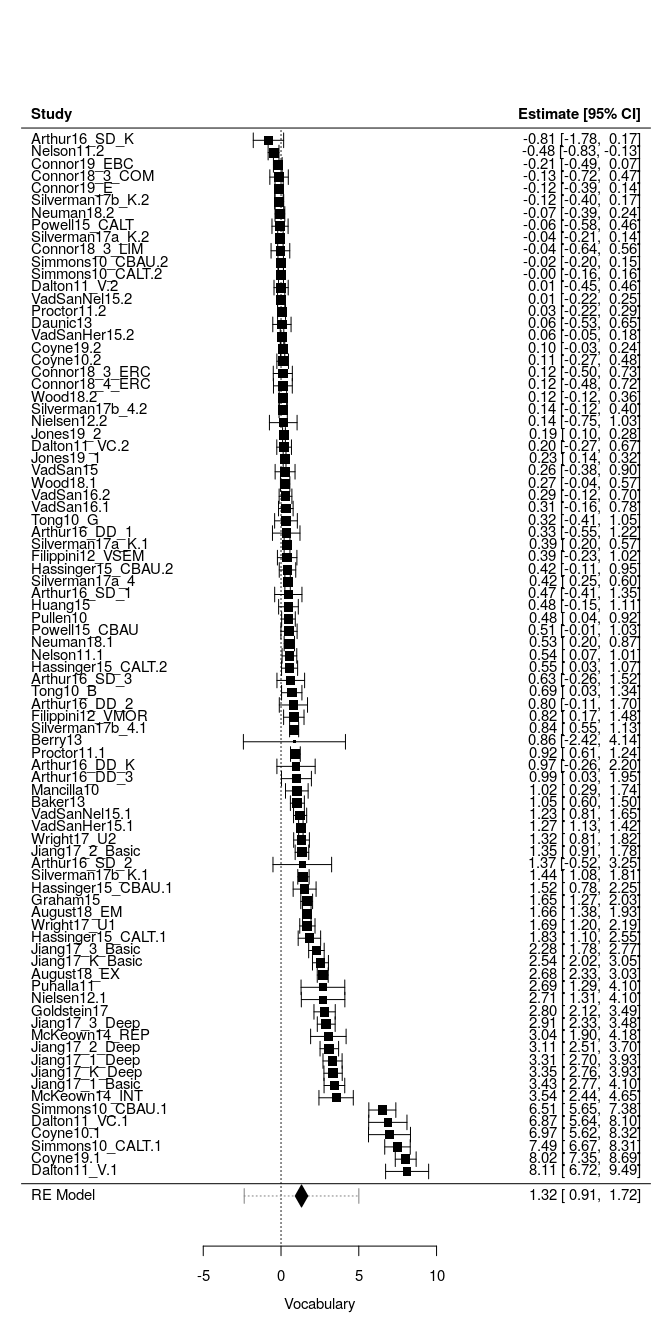
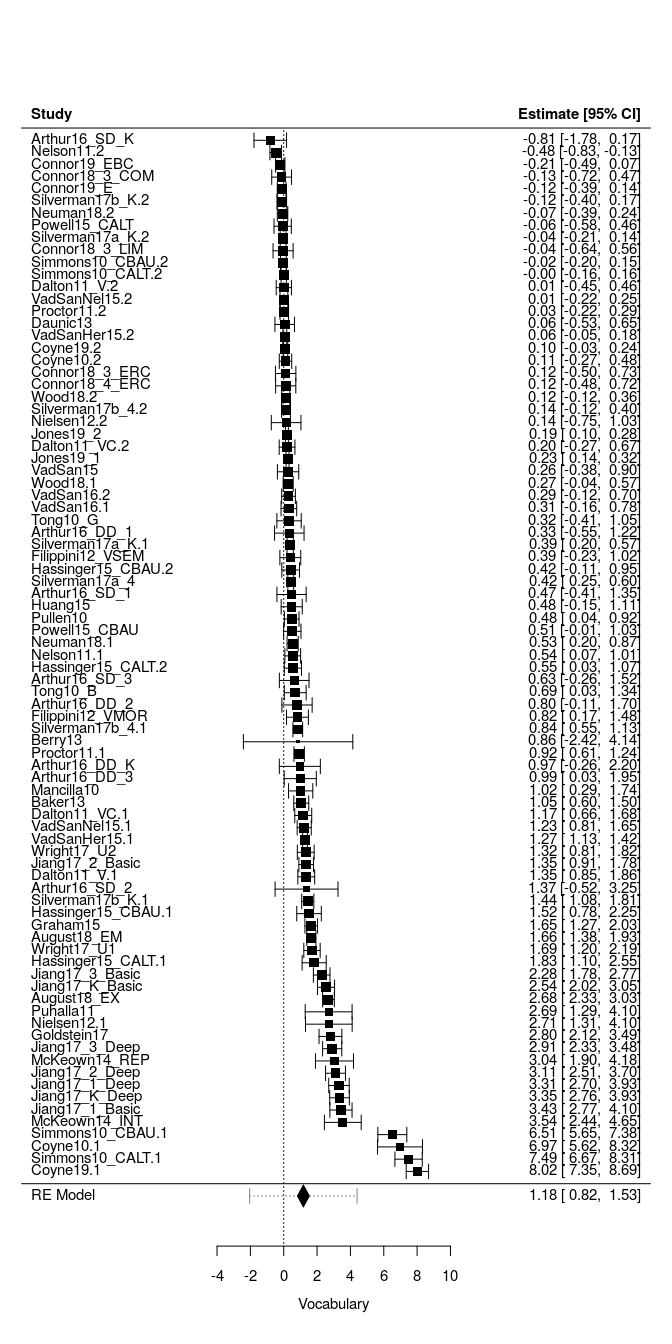
changes

diff --git a/analysis.md b/analysis.md
@@ -439,8 +439,8 @@ df_clean %>% knitr::kable()
 | Connor19\_EBC     | Connor19     | EBC      |  VR  | \-0.2084705 | 0.0203376 |     1 |    1 |    0 |    1 |   0 |   0 |    0 |   1 |    1 |    1 | ALT  |      0 |      0 |      0 |      1 |      1 |      1 |   0 |   1 |   0 |       0 |       1 |     1 |        0 |   4.50 |
 | Coyne10           | Coyne10      | Default  |  VR  |   6.9739699 | 0.4738991 |     0 |    1 |    0 |    0 |   0 |   0 |    0 |   0 |    0 |    0 | BAU  |      1 |      0 |      0 |      0 |      0 |      0 |   1 |   0 |   0 |       1 |       0 |     0 |        0 |  18.00 |
 | Coyne19           | Coyne19      | Default  |  VR  |   8.0164868 | 0.1170897 |     0 |    1 |    0 |    0 |   0 |   0 |    0 |   0 |    0 |    0 | ALT  |      1 |      0 |      0 |      0 |      0 |      0 |   0 |   1 |   0 |       0 |       1 |     0 |        1 |  44.00 |
-| Dalton11\_V       | Dalton11     | V        |  VR  |   8.1075333 | 0.4982294 |     0 |    1 |    0 |    0 |   0 |   0 |    0 |   0 |    1 |    0 | ALT  |      0 |      0 |      0 |      0 |      0 |      1 |   0 |   1 |   0 |       0 |       0 |     1 |        1 |  20.00 |
-| Dalton11\_VC      | Dalton11     | VC       |  VR  |   6.8664358 | 0.3943368 |     0 |    1 |    0 |    0 |   1 |   1 |    0 |   0 |    1 |    0 | ALT  |      0 |      0 |      0 |      0 |      0 |      1 |   0 |   1 |   0 |       0 |       0 |     1 |        1 |  20.00 |
+| Dalton11\_V       | Dalton11     | V        |  VR  |   1.3512556 | 0.0664307 |     0 |    1 |    0 |    0 |   0 |   0 |    0 |   0 |    1 |    0 | ALT  |      0 |      0 |      0 |      0 |      0 |      1 |   0 |   1 |   0 |       0 |       0 |     1 |        1 |  20.00 |
+| Dalton11\_VC      | Dalton11     | VC       |  VR  |   1.1700405 | 0.0673443 |     0 |    1 |    0 |    0 |   1 |   1 |    0 |   0 |    1 |    0 | ALT  |      0 |      0 |      0 |      0 |      0 |      1 |   0 |   1 |   0 |       0 |       0 |     1 |        1 |  20.00 |
 | Filippini12\_VMOR | Filippini12  | VMOR     |  VR  |   0.8227023 | 0.1120031 |     1 |    1 |    0 |    1 |   0 |   0 |    1 |   0 |    0 |    0 | ALT  |      0 |      1 |      0 |      0 |      0 |      0 |   0 |   1 |   0 |       0 |       1 |     0 |        0 |   7.25 |
 | Filippini12\_VSEM | Filippini12  | VSEM     |  VR  |   0.3949393 | 0.1020828 |     0 |    1 |    0 |    0 |   0 |   0 |    1 |   0 |    0 |    0 | ALT  |      0 |      1 |      0 |      0 |      0 |      0 |   0 |   1 |   0 |       0 |       1 |     0 |        0 |   7.25 |
 | Goldstein17       | Goldstein17  | Default  |  VR  |   2.8023543 | 0.1218541 |     0 |    1 |    0 |    0 |   0 |   0 |    0 |   0 |    1 |    1 | ALT  |      0 |      1 |      1 |      1 |      0 |      0 |   0 |   1 |   0 |       0 |       0 |     1 |        1 |  72.00 |
@@ -583,11 +583,11 @@ robu(
     ## Number of studies = 36 
     ## Number of outcomes = 85 (min = 1 , mean = 2.36 , median = 2 , max = 8 )
     ## Rho = 0.5 
-    ## I.sq = 97.53935 
-    ## Tau.sq = 1.183327 
+    ## I.sq = 97.37272 
+    ## Tau.sq = 1.093427 
     ## 
     ##                Estimate StdErr t-value  dfs    P(|t|>) 95% CI.L 95% CI.U Sig
-    ## 1 X.Intercept.     1.18  0.207    5.69 34.3 0.00000211    0.758      1.6 ***
+    ## 1 X.Intercept.      1.1  0.195    5.63 34.3 0.00000255      0.7     1.49 ***
     ## ---
     ## Signif. codes: < .01 *** < .05 ** < .10 *
     ## ---
@@ -880,12 +880,12 @@ robu(
     ## Number of studies = 36 
     ## Number of outcomes = 85 (min = 1 , mean = 2.36 , median = 2 , max = 8 )
     ## Rho = 0.5 
-    ## I.sq = 97.35011 
-    ## Tau.sq = 1.151654 
+    ## I.sq = 97.15662 
+    ## Tau.sq = 1.057611 
     ## 
     ##                Estimate StdErr t-value  dfs    P(|t|>) 95% CI.L 95% CI.U Sig
-    ## 1 X.Intercept.     1.68  0.311     5.4 27.7 0.00000958     1.04     2.32 ***
-    ## 2       typeVS    -1.55  0.316    -4.9 25.8 0.00004425    -2.20    -0.90 ***
+    ## 1 X.Intercept.     1.56  0.287    5.44 27.7 0.00000871    0.971    2.145 ***
+    ## 2       typeVS    -1.43  0.292   -4.89 25.9 0.00004542   -2.031   -0.829 ***
     ## ---
     ## Signif. codes: < .01 *** < .05 ** < .10 *
     ## ---
@@ -910,12 +910,12 @@ robu(
     ## Number of studies = 36 
     ## Number of outcomes = 85 (min = 1 , mean = 2.36 , median = 2 , max = 8 )
     ## Rho = 0.5 
-    ## I.sq = 97.57653 
-    ## Tau.sq = 1.250312 
+    ## I.sq = 97.41265 
+    ## Tau.sq = 1.154082 
     ## 
-    ##                Estimate StdErr t-value  dfs    P(|t|>) 95% CI.L 95% CI.U Sig
-    ## 1 X.Intercept.    1.296  0.237    5.47 28.1 0.00000758    0.811    1.781 ***
-    ## 2        TMULT   -0.599  0.448   -1.34  9.3 0.21272138   -1.607    0.409    
+    ##                Estimate StdErr t-value   dfs    P(|t|>) 95% CI.L 95% CI.U Sig
+    ## 1 X.Intercept.    1.193  0.222    5.38 28.05 0.00000972    0.739    1.646 ***
+    ## 2        TMULT   -0.496  0.440   -1.13  9.28 0.28772973   -1.488    0.495    
     ## ---
     ## Signif. codes: < .01 *** < .05 ** < .10 *
     ## ---
@@ -940,12 +940,12 @@ robu(
     ## Number of studies = 36 
     ## Number of outcomes = 85 (min = 1 , mean = 2.36 , median = 2 , max = 8 )
     ## Rho = 0.5 
-    ## I.sq = 97.52379 
-    ## Tau.sq = 1.536479 
+    ## I.sq = 97.35722 
+    ## Tau.sq = 1.416177 
     ## 
-    ##                Estimate StdErr t-value  dfs    P(|t|>) 95% CI.L 95% CI.U Sig
-    ## 1 X.Intercept.   1.1849  0.209   5.657 33.5 0.00000253    0.759    1.611 ***
-    ## 2 scale.Hours.   0.0474  0.181   0.262  6.3 0.80197707   -0.391    0.486    
+    ##                Estimate StdErr t-value   dfs    P(|t|>) 95% CI.L 95% CI.U Sig
+    ## 1 X.Intercept.   1.0998  0.196   5.608 33.44 0.00000294    0.701    1.499 ***
+    ## 2 scale.Hours.   0.0684  0.179   0.382  6.29 0.71505494   -0.365    0.502    
     ## ---
     ## Signif. codes: < .01 *** < .05 ** < .10 *
     ## ---
@@ -970,12 +970,12 @@ robu(
     ## Number of studies = 36 
     ## Number of outcomes = 85 (min = 1 , mean = 2.36 , median = 2 , max = 8 )
     ## Rho = 0.5 
-    ## I.sq = 97.47389 
-    ## Tau.sq = 1.209645 
+    ## I.sq = 97.31537 
+    ## Tau.sq = 1.123733 
     ## 
     ##                   Estimate StdErr t-value  dfs  P(|t|>) 95% CI.L 95% CI.U Sig
-    ## 1    X.Intercept.    1.407  0.330    4.27 17.6 0.000484    0.714    2.101 ***
-    ## 2 factor.CONT.BAU   -0.445  0.382   -1.16 33.5 0.252854   -1.222    0.333    
+    ## 1    X.Intercept.    1.238  0.301   4.113 17.5 0.000685    0.605    1.872 ***
+    ## 2 factor.CONT.BAU   -0.278  0.358  -0.777 33.5 0.442750   -1.005    0.449    
     ## ---
     ## Signif. codes: < .01 *** < .05 ** < .10 *
     ## ---
@@ -1000,13 +1000,13 @@ robu(
     ## Number of studies = 36 
     ## Number of outcomes = 85 (min = 1 , mean = 2.36 , median = 2 , max = 8 )
     ## Rho = 0.5 
-    ## I.sq = 97.42449 
-    ## Tau.sq = 1.239853 
+    ## I.sq = 97.23024 
+    ## Tau.sq = 1.134052 
     ## 
     ##                Estimate StdErr t-value   dfs P(|t|>) 95% CI.L 95% CI.U Sig
-    ## 1 X.Intercept.    0.907  0.267    3.39 10.49 0.00639    0.316     1.50 ***
-    ## 2          RCT    0.282  0.391    0.72 21.00 0.47970   -0.532     1.10    
-    ## 3          WSD    1.764  0.619    2.85  1.37 0.15762   -2.507     6.04    
+    ## 1 X.Intercept.    0.904  0.266   3.396 10.45 0.00641    0.315    1.494 ***
+    ## 2          RCT    0.154  0.374   0.413 20.84 0.68392   -0.623    0.931    
+    ## 3          WSD    1.762  0.618   2.850  1.37 0.15757   -2.504    6.029    
     ## ---
     ## Signif. codes: < .01 *** < .05 ** < .10 *
     ## ---
@@ -1031,16 +1031,16 @@ robu(
     ## Number of studies = 36 
     ## Number of outcomes = 85 (min = 1 , mean = 2.36 , median = 2 , max = 8 )
     ## Rho = 0.5 
-    ## I.sq = 97.54135 
-    ## Tau.sq = 1.396483 
+    ## I.sq = 97.37238 
+    ## Tau.sq = 1.285976 
     ## 
     ##                Estimate StdErr t-value   dfs P(|t|>) 95% CI.L 95% CI.U Sig
-    ## 1 X.Intercept.    1.513  0.485   3.120  9.99  0.0109    0.432    2.594  **
-    ## 2       GradeK   -0.325  0.487  -0.667 15.06  0.5150   -1.363    0.713    
-    ## 3       Grade1   -0.424  0.447  -0.948 12.96  0.3602   -1.390    0.542    
-    ## 4       Grade2    0.336  0.656   0.512  5.59  0.6285   -1.299    1.971    
-    ## 5       Grade3   -0.333  0.815  -0.408  5.30  0.6991   -2.394    1.728    
-    ## 6       Grade4   -0.449  0.663  -0.678 13.29  0.5095   -1.877    0.979    
+    ## 1 X.Intercept.   1.0975  0.342  3.2068  9.79 0.00964    0.333    1.862 ***
+    ## 2       GradeK   0.0286  0.407  0.0703 15.07 0.94488   -0.839    0.896    
+    ## 3       Grade1  -0.1876  0.403 -0.4658 13.01 0.64910   -1.058    0.683    
+    ## 4       Grade2   0.5303  0.632  0.8390  5.58 0.43593   -1.045    2.105    
+    ## 5       Grade3  -0.1477  0.760 -0.1944  5.26 0.85318   -2.073    1.778    
+    ## 6       Grade4  -0.0662  0.601 -0.1103 13.19 0.91386   -1.362    1.230    
     ## ---
     ## Signif. codes: < .01 *** < .05 ** < .10 *
     ## ---
